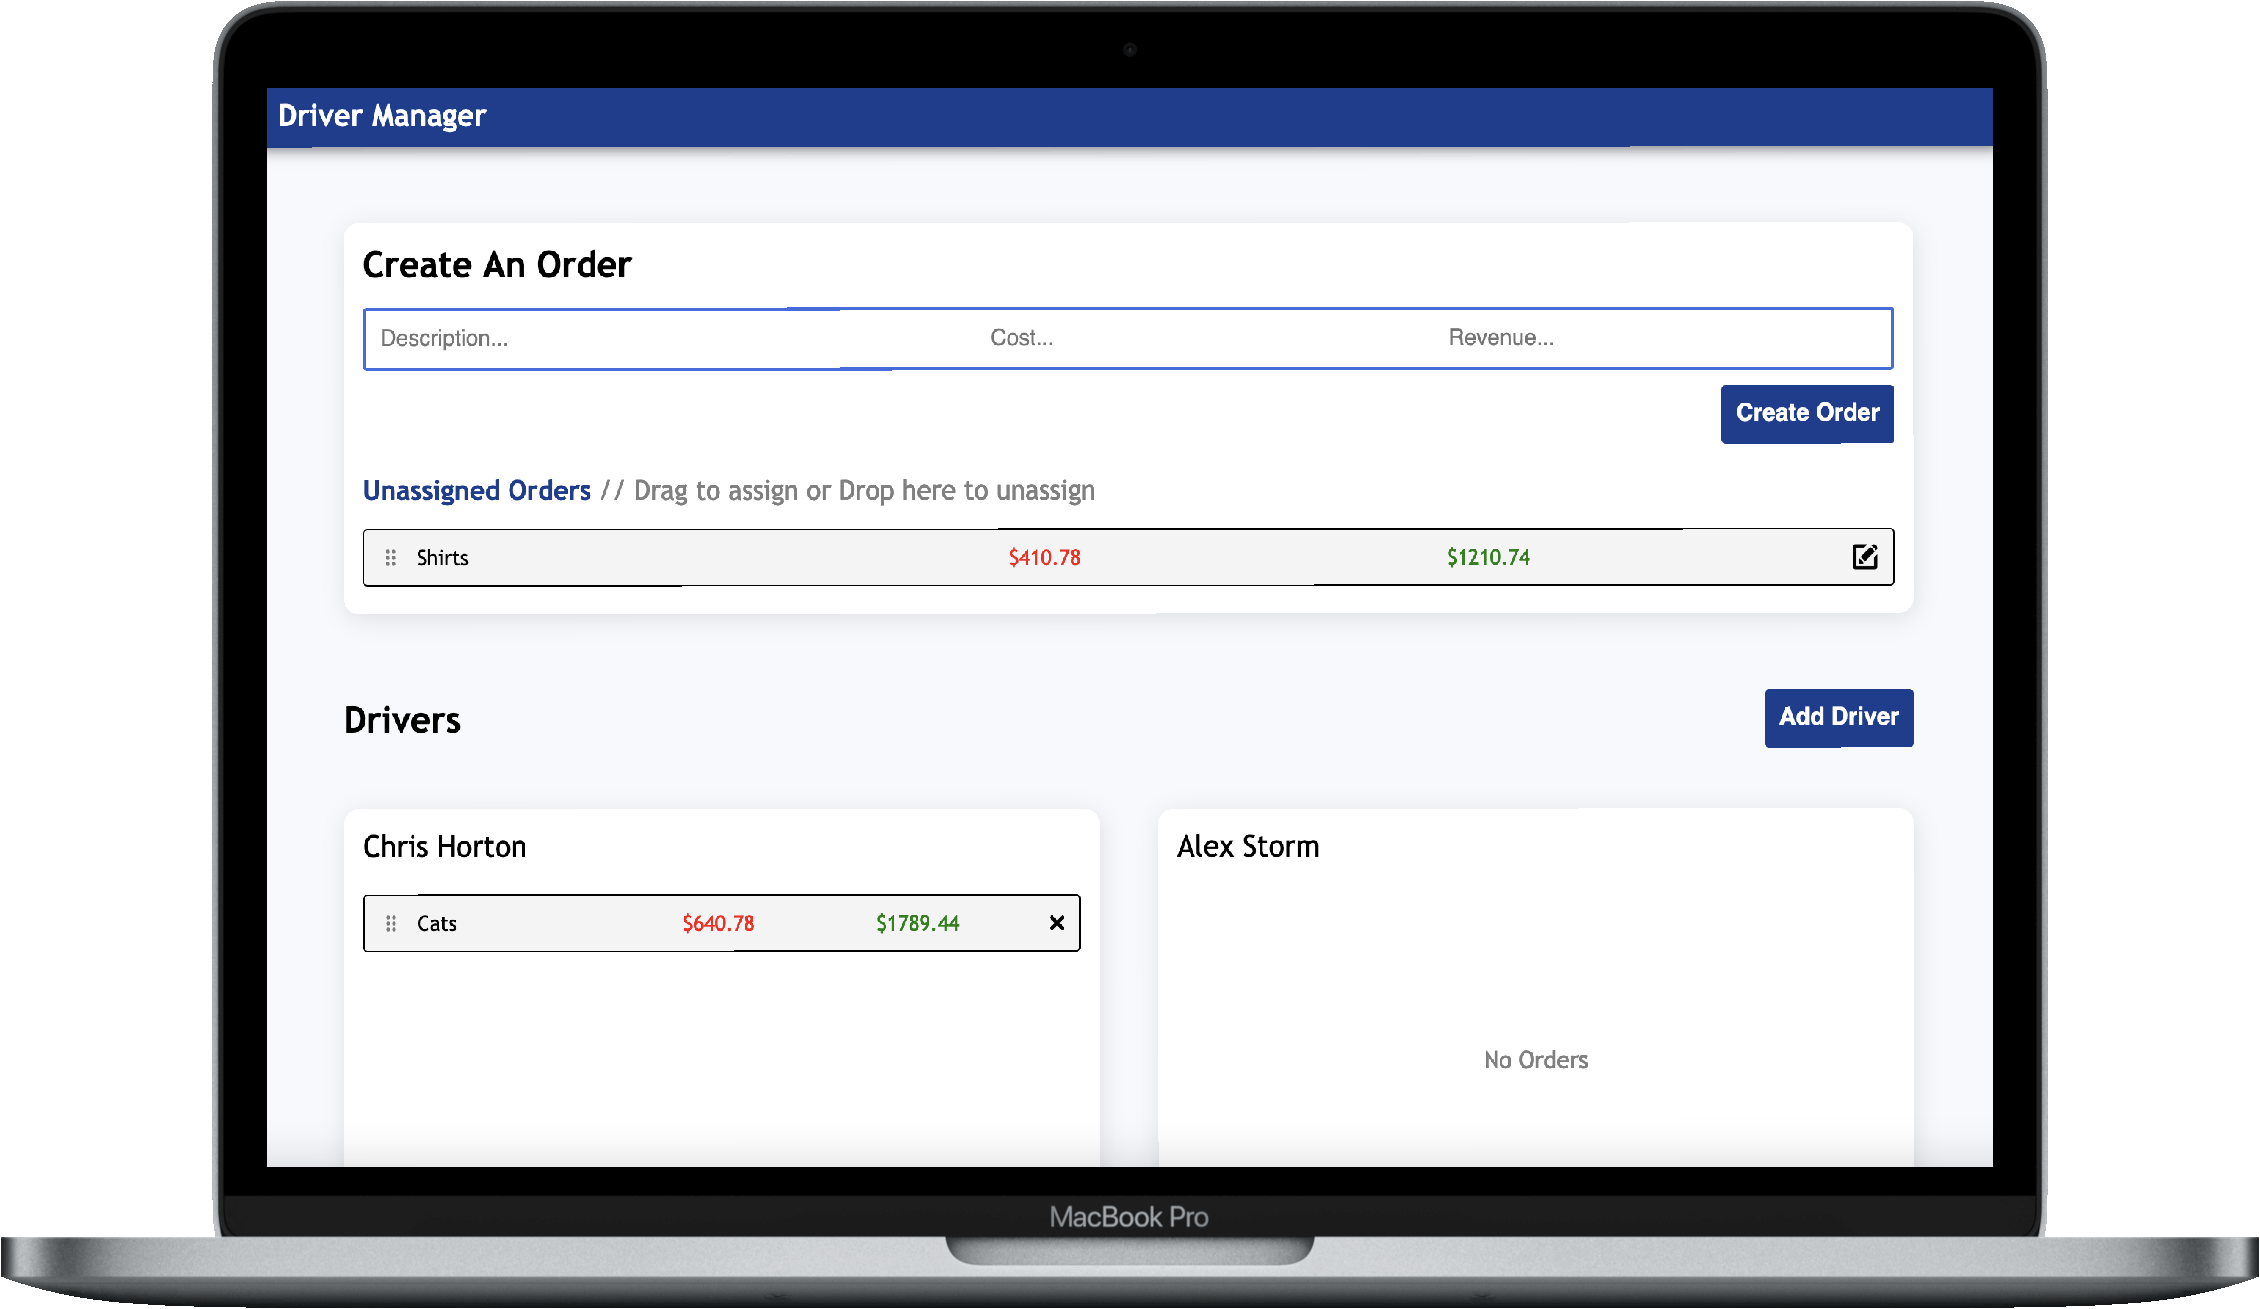
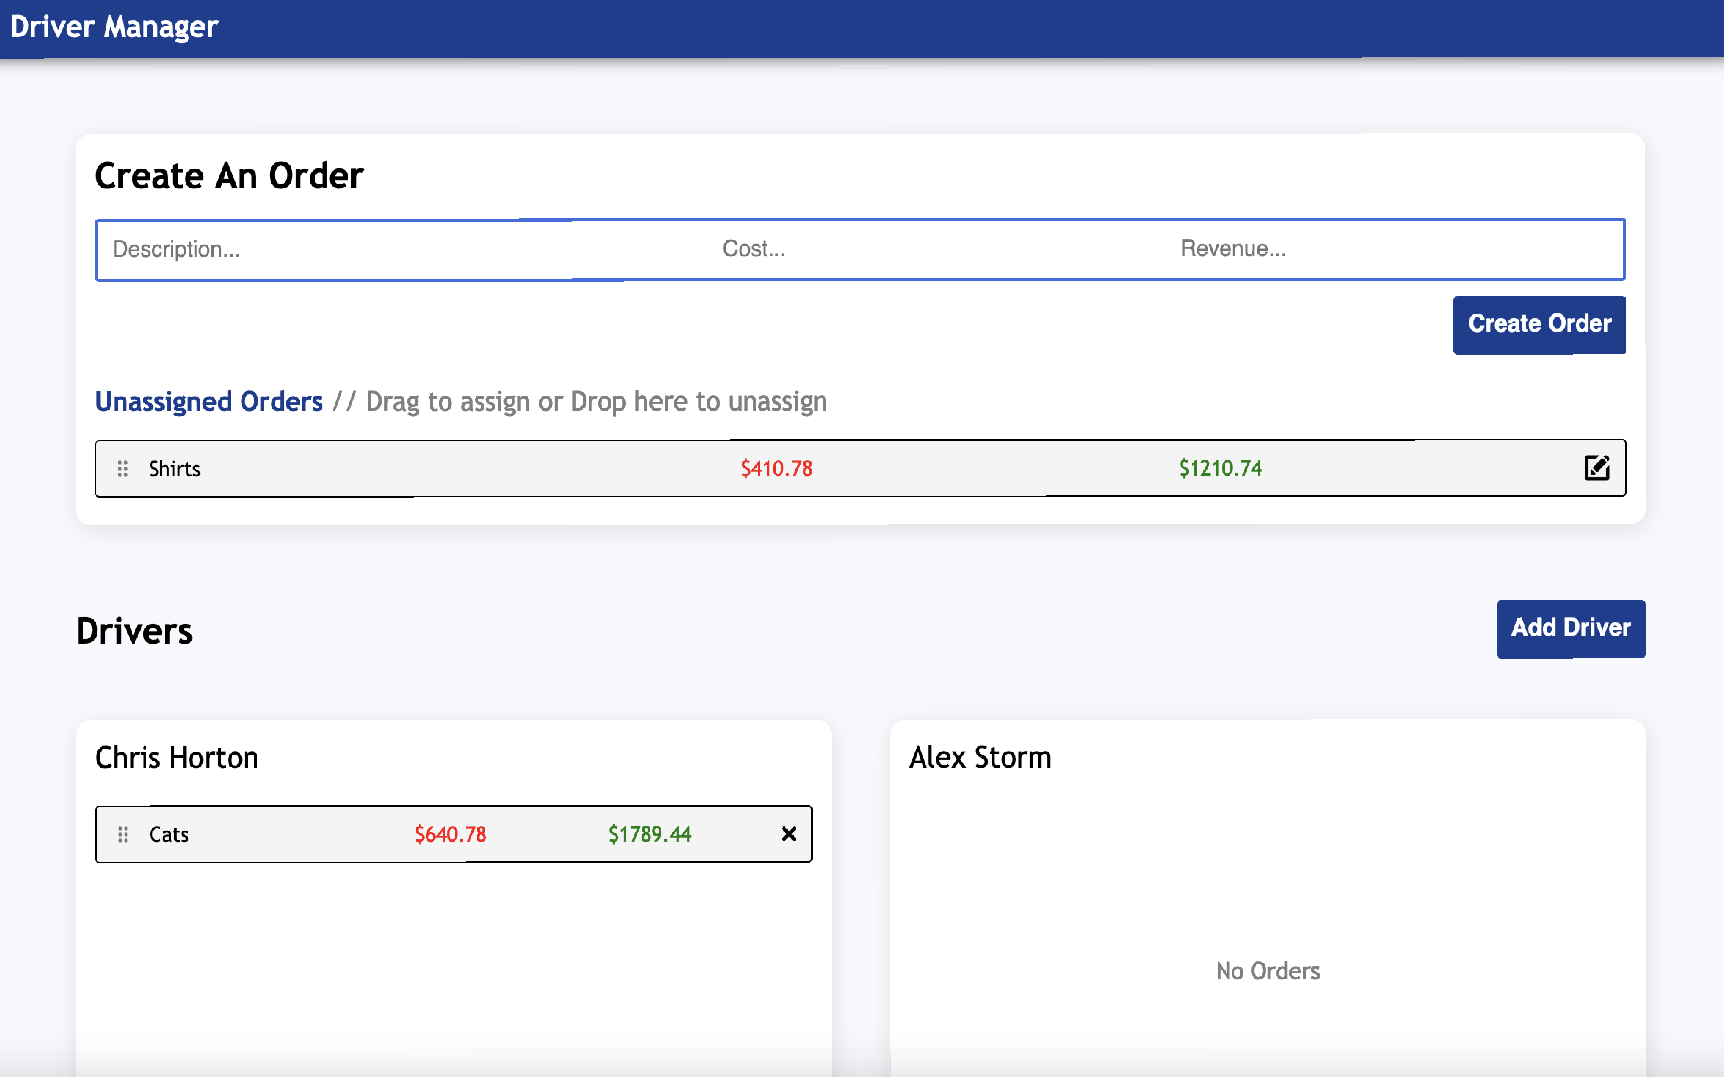
refactor: updated page background color, updated project assets, removed oldest project, added placeholder for new project, updated copy

diff --git a/index.html b/index.html
@@ -1,4 +1,4 @@
-<!-- Nothing exciting here 😔 -->
+<!-- Nothing exciting here - sorry to disappoint 😔 -->
 
 <!DOCTYPE html>
 <html lang="en">
@@ -30,7 +30,7 @@
     <section class="hero">
       <div class="hero__content-container">
         <h1 class="hero__title">Eduard Tupy</h1>
-        <span class="hero__subtitle">Software Engineer</span>
+        <span class="hero__subtitle">Senior Software Engineer</span>
         <div class="hero__social-container">
           <a
             class="hero__icon-link"
@@ -62,10 +62,10 @@
           </a>
         </div>
         <p class="hero__description">
-          As a seasoned developer building and maintaining various digital ecosystems, I find I am very passionate about helping those around me reach their full potential by fostering a collaborative and growth-oriented environment. My strong communication skills enable me to bridge the gap between different departments - such as product designers and quality assurance analysts - to lead the way and ensure that everyone is aligned and speaking a common language as we work together to deliver high-quality products that everyone should be proud of.
+          With over 6 years of experience building and innovating various digital products, I focus on making systems performant, secure, and maintainable. What drives me most is helping people grow — inspiring curiosity, collaboration, and a fostering a culture of continuous improvement. I’m someone who thrives on learning the ins and outs of every part of a project to better connect the dots and identify blind spots. Whether it’s product design, development, or QA, I work with everyone to ensure we are aligned and speaking the same language as we work together to deliver high-quality products that everyone should be proud of.
           <br>
           <br>
-          I love the challenge of tackling complex systems and believe that every problem can be solved once understood and simplified.
+          I believe that even the most complex problems can be solved once they're truly understood and simplified. I enjoy the process of untangling complexity, finding clarity in the chaos, and transforming challenges into opportunities to build something meaningful — together.
         </p>
       </div>
       <div class="hero__cover-image">
@@ -75,44 +75,36 @@
 
     <!-- Projects -->
     <section class="projects">
-      <h2 class="projects__headline">Projects</h2>
+      <span class="projects__line-break"></span>
       <p class="projects__description">
-        Throughout my career, I'll create applications that help solidify or capture my understanding of a new language, framework, or tool - some of which are available below.
+        As time goes on, I'll create applications that help solidify or capture my understanding of a new language, framework, or tool - some of which are available below.
       </p>
 
       <!-- Project One -->
       <div class="project-entry">
-        <div class="project-entry__cover-image">
+        <div class="project-entry__thumbnail">
           <img
-            src="assets/driver_manager.png"
-            alt="Open laptop with a placeholder image of the driver manager website"
+            src="https://placehold.co/1000x600/404040/777?font=pt-sans&text=In+Progress"
+            alt="thumbnail of a cat recognition application for litter boxes called 'Sgnl'."
           />
         </div>
         <div class="project-entry__content">
           <span class="project-entry__tech-stack">
-            NextJS | Tailwind | NestJS | Knex
+            Django | Tailwind | HTML
           </span>
-          <h3 class="project-entry__headline">Lodr</h3>
+          <h3 class="project-entry__headline">Sgnl</h3>
           <p class="project-entry__description">
-            A logistics operations system where users acting as dispatchers can assign orders for drivers to fulfill for clients. Orders can be dragged and dropped to drivers or between them, and existing orders can be unassigned and then edited.
+            A program assisted by AI that observes a video feed to recognize and accurately identify when a cat enters a litter box, which then triggers a response. The response can be a simple notification or an automated task.
           </p>
-          <a
-            class="project-entry__link disabled"
-            href="https://github.com/eduard-T/Lodr"
-            target="_blank"
-            rel="noopener noreferrer"
-          >
-            Refactoring
-          </a>
         </div>
       </div>
 
       <!-- Project Two -->
       <div class="project-entry">
-        <div class="project-entry__cover-image">
+        <div class="project-entry__thumbnail">
           <img
             src="assets/knots.png"
-            alt="Open laptop with a placeholder image of the goal management website"
+            alt="thumbnail of a goal management application called 'Knots'."
           />
         </div>
         <div class="project-entry__content">
@@ -136,27 +128,27 @@
 
       <!-- Project Three -->
       <div class="project-entry">
-        <div class="project-entry__cover-image">
+        <div class="project-entry__thumbnail">
           <img
-            src="assets/spltr.png"
-            alt="Open laptop with a placeholder image of the Spltr website"
+            src="assets/driver_manager.png"
+            alt="thumbnail of a driver manager application called 'Lodr'."
           />
         </div>
         <div class="project-entry__content">
           <span class="project-entry__tech-stack">
-            React | CSS | Firebase
+            Next | Tailwind | Nest | Knex
           </span>
-          <h3 class="project-entry__headline">Spltr</h3>
+          <h3 class="project-entry__headline">Lodr</h3>
           <p class="project-entry__description">
-            A simple bill splitting application that works with any number of people. Spltr will take your group size, the bill total, tip percentage, and split the bill evenly between all members. Historical bills are saved and can be removed.
+            A logistics operations system where users acting as dispatchers can assign orders for drivers to fulfill for clients. Orders can be dragged and dropped to drivers or between them, and existing orders can be unassigned and then edited.
           </p>
           <a
-            class="project-entry__link"
-            href="https://github.com/eduard-T/Spltr"
-            target="_blank"
-            rel="noopener noreferrer"
+              class="project-entry__link disabled"
+              href="https://github.com/eduard-T/Lodr"
+              target="_blank"
+              rel="noopener noreferrer"
           >
-            Repository
+            Refactoring
           </a>
         </div>
       </div>

diff --git a/styles/components.css b/styles/components.css
@@ -27,7 +27,7 @@
     line-height: clamp(28px, 6vw, 54px);
     letter-spacing: -1.25px;
     font-family: 'Bungee Hairline', cursive;
-    color: var(--brand);
+    color: var(--accent);
     margin-left: -6px;
 }
 
@@ -50,13 +50,14 @@
 .hero__icon-link {
     width: 32px;
     height: 32px;
-    fill: var(--brand);
+    fill: var(--accent);
     transition: all 200ms ease-in;
 
     &:hover,
     &:focus-visible {
         fill: var(--neutral-0);
         transform: scale(1.075);
+        outline: none;
     }
 }
 
@@ -75,16 +76,16 @@
     margin-top: 200px;
 }
 
-.projects__headline {
-    font-size: 40px;
-    line-height: 24px;
-    letter-spacing: -1.25px;
-    font-family: 'Bungee Hairline', cursive;
-    color: var(--brand);
-    margin-left: -6px;
+.projects__line-break {
+    display: block;
+    height: 3px;
+    width: 180px;
+    border-radius: 4px;
+    background-color: var(--accent);
 }
 
 .projects__description {
+    font-size: 26px;
     padding-top: 16px;
     max-width: 940px;
 }
@@ -110,14 +111,17 @@
 .project-entry__headline {
     font-size: 28px;
     font-weight: 700;
-    color: var(--brand);
+    color: var(--accent);
     padding: 12px 0;
 }
 
 .project-entry__tech-stack {
     display: inline-block;
-    font-size: 16px;
+    text-transform: uppercase;
+    font-weight: 700;
+    font-size: 12px;
     word-spacing: 6px;
+    letter-spacing: 1px;
     color: var(--neutral-30);
 }
 
@@ -132,7 +136,7 @@
     padding: 10px 16px;
     text-transform: uppercase;
     border: none;
-    background-color: var(--brand);
+    background-color: var(--accent);
     border-radius: 4px;
     transition: all 200ms ease-in;
 
@@ -151,8 +155,13 @@
     }
 }
 
-.project-entry__cover-image {
+.project-entry__thumbnail {
     width: 50%;
+
+    img {
+        border-radius: 4px;
+        box-shadow: 0 5px 50px var(--neutral-100);
+    }
 }
 
 /* Footer */
@@ -178,7 +187,7 @@ footer {
     font-family: 'Bungee Hairline', cursive;
     font-weight: 700;
     font-size: 48px;
-    color: var(--brand);
+    color: var(--accent);
 }
 
 /* Page Loader */
@@ -190,7 +199,7 @@ footer {
     display: flex;
     justify-content: center;
     align-items: center;
-    background-color: var(--neutral-100);
+    background-color: var(--neutral-90);
 }
 
 .loader {
@@ -249,7 +258,7 @@ footer {
         }
     }
 
-    .project-entry__cover-image {
+    .project-entry__thumbnail {
         width: 100%;
         padding-bottom: 40px;
     }

diff --git a/styles/base.css b/styles/base.css
@@ -1,18 +1,19 @@
 :root {
-    --brand: #C0FF33;
+    --accent: #C0FF33;
     --neutral-0: #FFFFFF;
     --neutral-10: #E8E8E8;
-    --neutral-30: #BBBBBB;
+    --neutral-30: #A0A0A0;
     --neutral-50: #777777;
     --neutral-70: #404040;
+    --neutral-90: #161616;
     --neutral-100: #000000;
 }
 
 html {
     cursor: default;
-    background-color: var(--neutral-100);
+    background-color: var(--neutral-90);
     shape-rendering: geometricPrecision;
-    scrollbar-color: var(--neutral-70) var(--neutral-100);
+    scrollbar-color: var(--neutral-70) var(--neutral-90);
     text-wrap: pretty;
     -webkit-text-size-adjust: 100%;
     -webkit-font-smoothing: antialiased;

diff --git a/styles/utils.css b/styles/utils.css
@@ -9,22 +9,22 @@
 
 @keyframes pulseIn {
     0% {
-        box-shadow: inset 0 0 0 1rem var(--brand);
+        box-shadow: inset 0 0 0 1rem var(--accent);
         opacity: 1;
     }
     50%, 100% {
-        box-shadow: inset 0 0 0 0 var(--brand);
+        box-shadow: inset 0 0 0 0 var(--accent);
         opacity: 0;
     }
 }
 
 @keyframes pulseOut {
     0%, 50% {
-        box-shadow: 0 0 0 0 var(--brand);
+        box-shadow: 0 0 0 0 var(--accent);
         opacity: 0;
     }
     100% {
-        box-shadow: 0 0 0 1rem var(--brand);
+        box-shadow: 0 0 0 1rem var(--accent);
         opacity: 1;
     }
 }
